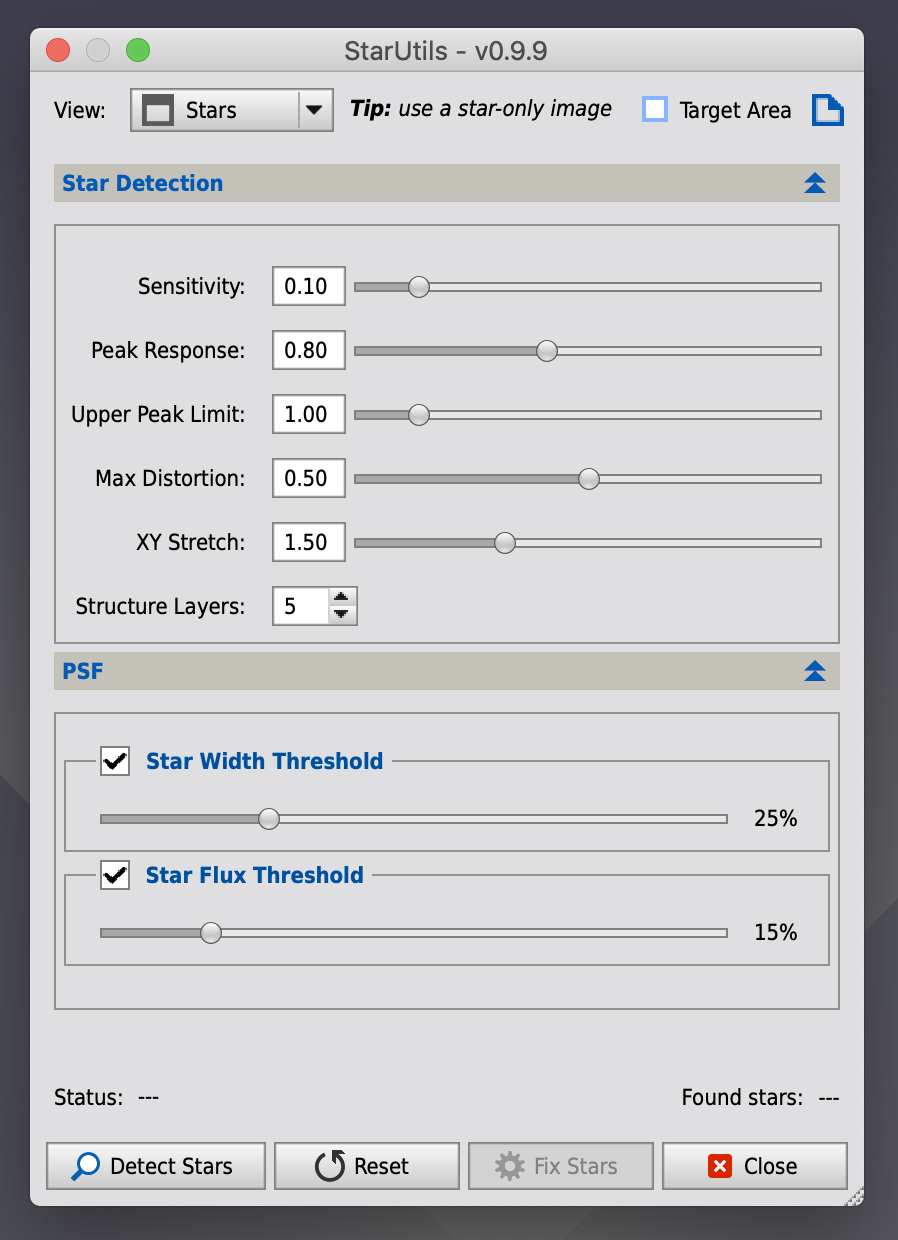
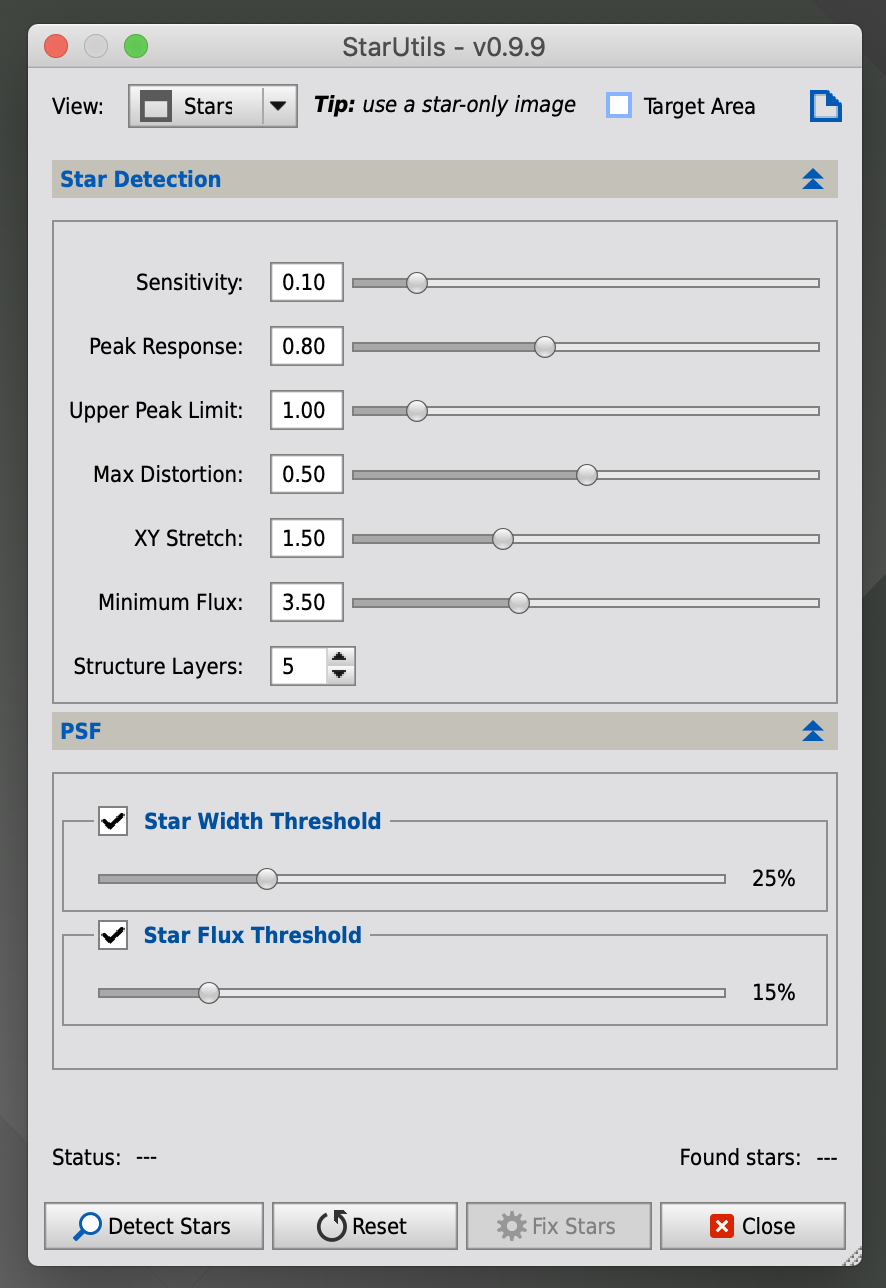
Add minimumFlux detection parameter

Changed region(s): [[0.0, 0.0, 1.0, 1.0]]

diff --git a/StarUtils-lib.js b/StarUtils-lib.js
@@ -223,6 +223,7 @@ StarUtils.prototype = {
     *  - maxDistortion: StarDetector maxDistortion
     *  - structureLayers : StarDetector structureLayers
     *  - xyStretch: xStarDetector yStretch
+    *  - minimumFlux: Minimum flux for stars to be detected
     *  - window: Image window to analyze/fix
     *  - sizeClassInterval: interval of size classes (default 10)
     *  - targetArea: Area of the image to be scanned, can be a Rect or a
@@ -246,6 +247,7 @@ StarUtils.prototype = {
       if (opts.maxDistortion) sd.maxDistortion = opts.maxDistortion;
       if (opts.structureLayers) sd.structureLayers = opts.structureLayers;
       if (opts.xyStretch) sd.xyStretch = opts.xyStretch;
+      if (opts.minimumFlux) this.minimumFlux = opts.minimumFlux;
       this.onStatusUpdate = opts.onStatusUpdate;
       this.onProgressUpdate = opts.onProgressUpdate;
 
@@ -280,13 +282,19 @@ StarUtils.prototype = {
       }
       var stars = this.sd.stars(lview.image);
       var targetArea = this.opts.targetArea;
+      var minFlux = this.minimumFlux;
       if (targetArea) {
          if (targetArea instanceof View && targetArea.isPreview)
             targetArea = targetArea.window.previewRect(targetArea);
          this.log.targetArea = rectToObj(targetArea);
          this.targetArea = targetArea;
          stars = stars.filter(function (star) {
+            if (minFlux && star.flux < minFlux) return false;
             return targetArea.includes(star.pos.x, star.pos.y);
+         });
+      } else if (minFlux) {
+         stars = stars.filter(function (star) {
+            return (star.flux >= minFlux);
          });
       }
       this.stars = stars;

diff --git a/doc/PIDoc/scripts/StarUtils/StarUtils.html b/doc/PIDoc/scripts/StarUtils/StarUtils.html
@@ -128,6 +128,12 @@
 </td>
 </tr>
 <tr>
+<td><p><strong>Minimum Flux</strong></p>
+</td>
+<td><p>Minimum flux for stars to be detected. Lower values may include stars that could be too faint to be even visible.</p>
+</td>
+</tr>
+<tr>
 <td><p><strong>Structure Layers</strong></p>
 </td>
 <td><p>Number of wavelet layers for structure detection.</p>
@@ -336,7 +342,7 @@
 </div>
 
 <div id="footer">
-   <p>Generated by the PixInsight Documentation Compiler script version 1.6.5 on 2021-02-15 17:13:12 UTC</p>
+   <p>Generated by the PixInsight Documentation Compiler script version 1.6.5 on 2021-03-09 15:47:44 UTC</p>
 </div>
 <br/>
 <br/>

diff --git a/StarUtils-GUI.js b/StarUtils-GUI.js
@@ -92,6 +92,14 @@ var StarUtilsUI = {
              'less accurate.'
       },
       {
+         label: 'Minimum Flux',
+         name: 'minimumFlux',
+         type: NumericControl,
+         value: 3.5,
+         range: [0.1, 10.0],
+         tip: 'Minimum flux for stars to be detected. Lower values may include stars that could be too faint to be even visible.'
+      },
+      {
          label: 'Structure Layers',
          name: 'structureLayers',
          type: SpinBox,
